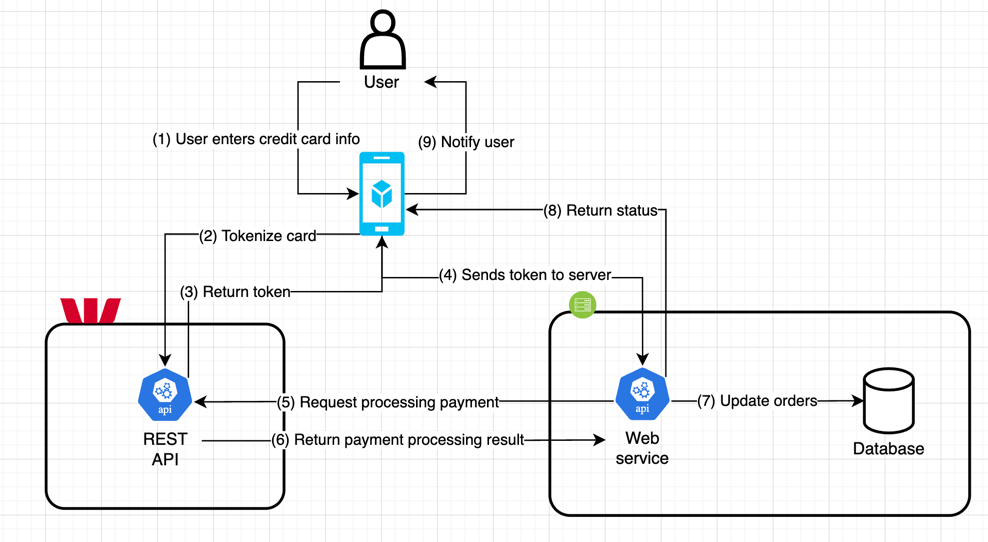
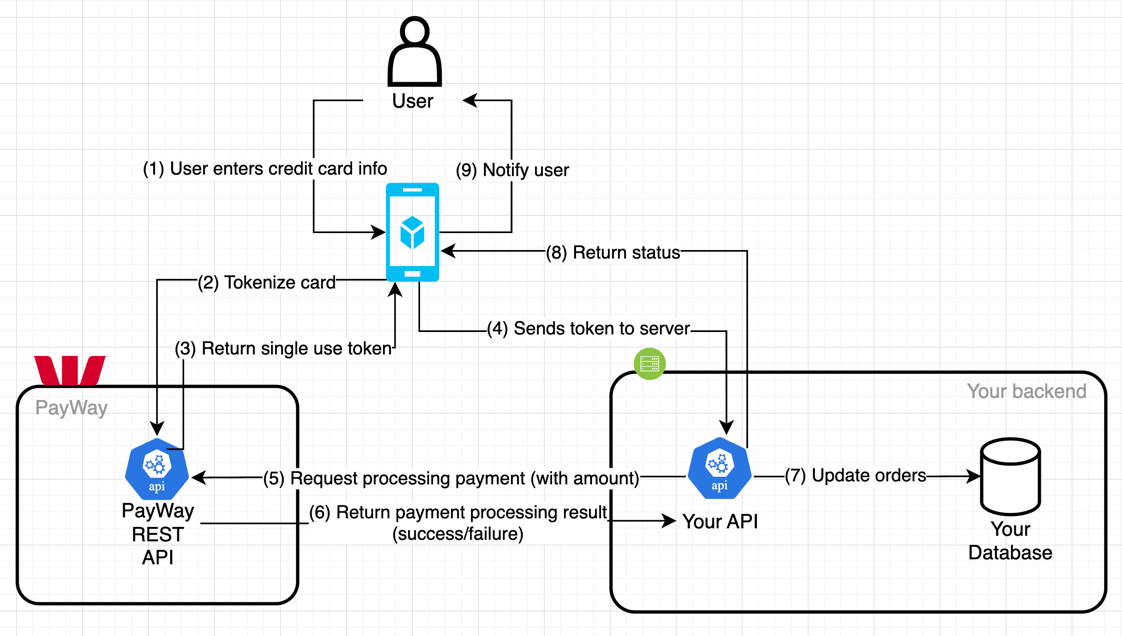
Update the article for SDK demonstration

Changed region(s): [[0.0, 0.0, 1.0, 0.9742]]

diff --git a/articles/integrating-payway-into-your-app.md b/articles/integrating-payway-into-your-app.md
@@ -40,13 +40,13 @@ together to process payments securely. Below is a proposed system architecture f
 
 ```mermaid
 graph TD
-    A[User] -->|Initiates Payment| B[Frontend]
-    B -->|Send Payment Info| C[Backend REST API]
+    A[User] -->|Initiates Payment| B[Your Frontend]
+    B -->|Send Payment Info| C[Your API]
     C -->|Validate & Process Payment| D[PayWay API]
     D -->|Process Payment| E[Bank]
     E -->|Payment Confirmation| D
     D -->|Payment Status| C
-    C -->|Update Order Status| F[Database]
+    C -->|Update Order Status| F[Your Database]
     C -->|Respond with Status| B
     B -->|Show Confirmation| A
 ```
@@ -67,11 +67,14 @@ The payment flow for integrating PayWay can be summarized in the following steps
 
 To demonstrate how to integrate PayWay into your application, 
 we made a proof of concept (POC) code available on [our GitHub repo](https://github.com/whitefoxcloud/payway-poc). 
+
 This POC provides examples for processing credit card and direct debit payments using PayWay.
+
+The code implementations are for demonstration purposes only and should be adapted to your specific requirements and security standards.
 
 ### Credit Card Payment Example
 
-![Credit card diagram](credit_card_diagram.png)
+![PayWay payment integration flow - credit card](credit_card_diagram.png)
 
 Here is a simplified version of how to process a credit card payment using PayWay:
 
@@ -80,8 +83,8 @@ import requests
 
 PAYWAY_API_URL = "https://api.payway.com.au/rest/v1/transactions"
 PAYWAY_SINGLE_USE_TOKEN_API_URL = "https://api.payway.com.au/rest/v1/single-use-tokens"
-PAYWAY_PUBLISHABLE_API_KEY = ""
-PAYWAY_SECRET_API_KEY = ""
+PAYWAY_PUBLISHABLE_API_KEY = {} # Your publishable API key
+PAYWAY_SECRET_API_KEY = {} # Your secret API key
 
 
 def process_credit_card_payment(amount, card_number, card_holder_name, expiry_month, expiry_year, cvn, merchant_id="TEST"):
@@ -126,7 +129,7 @@ print(response)
 
 ### Direct Debit Payment Example
 
-![Direct debit diagram](direct_debit_diagram.png)
+![PayWay payment integration flow - direct debit](direct_debit_diagram.png)
 
 Similarly, here is an example for processing a direct debit payment:
 
@@ -140,8 +143,8 @@ PAYWAY_SINGLE_USE_TOKEN_API_URL = "https://api.payway.com.au/rest/v1/single-use-
 PAYWAY_CUSTOMER_API_URL = "https://api.payway.com.au/rest/v1/customers/{customer_id}"
 PAYWAY_REGULAR_PAYMENT_API_URL = "https://api.payway.com.au/rest/v1/customers/{customer_id}/schedule"
 BANK_ID = "0000000A"
-PAYWAY_PUBLISHABLE_API_KEY = ""
-PAYWAY_SECRET_API_KEY = ""
+PAYWAY_PUBLISHABLE_API_KEY = {} # Your publishable API key
+PAYWAY_SECRET_API_KEY = {} # Your secret API key
 
 
 def process_direct_debit_payment(amount, frequency, bsb, account_number, account_name, customer_id, merchant_id="TEST"):
@@ -194,13 +197,114 @@ response = process_direct_debit_payment(1000, "weekly", "012003", "456789", "Joh
 print(response)
 ```
 
-### Example PayWay SDK
+## Example PayWay SDK
 
-You could refer to the simple SDK that we implemented in [our GitHub repo](https://github.com/whitefoxcloud/payway-poc).
+The codes we introduced above were the simplified version of how you could communicate with PayWay using Python's `requests` library. While this approach works, it requires manual handling of HTTP requests and responses, which can be error-prone and time-consuming.
 
-That includes the skeleton of the SDK for communicating with PayWay API. 
+The better approach is to implement an SDK. We've developed an example SDK client that abstracts away the complexities of direct API calls. Using SDK client, you can enjoy several benefits:
+- **Ease of Use**: The SDK provides intuitive functions that simplify interactions with the PayWay API, reducing boilerplate code and making your codebase cleaner.
+- **Improved Reliability**: Our SDK handles many common issues such as retries, error handling, and response parsing, ensuring more reliable and robust communication with the PayWay API.
+- **Enhanced Security**: By managing authentication and secure data transmission within the SDK, we minimize potential security vulnerabilities in your application.
 
-If you want to modify and adapt it to your specific business needs or get help with integrating PayWay into your system, we could help you. Feel free to contact us.
+You can integrate this SDK into your project by visiting [our GitHub repo](https://github.com/whitefoxcloud/payway-poc/tree/main/src/payway). The repository includes comprehensive examples to help you get started quickly.
+
+
+### SDK Usage Example: Credit Card Payment
+
+Here's an example of how you can use our example PayWay SDK to process a credit card payment. 
+
+Please note that this is for demonstration purposes only, and not an official SDK from PayWay, hence you should adapt it to your specific requirements and security standards.
+
+Create a PayWay client instance:
+```python
+payway_client = PayWayClient(
+    api_base_url="https://api.payway.com.au/rest/v1",
+    merchant_id="TEST",
+    bank_account_id="0000000A",
+    publishable_api_key="YOUR_PUBLISHABLE_API_KEY",
+    secret_api_key="YOUR_SECRET_API_KEY",
+)
+```
+
+Obtain a single use token for a credit card:
+```python
+# Create a card instance
+card = PayWayCard(
+    card_number="4715142376126536",
+    cvn="218",
+    card_holder_name="Filippa Padovano",
+    expiry_date_month="04",
+    expiry_date_year="29"
+)
+
+# Create card token and create customer
+token_response, errors = payway_client.create_card_token(card)
+if errors:
+    for error in errors:
+        print(error.to_message())
+        return
+token = token_response.token
+
+# Log card token
+print("Created card token:", token)
+```
+
+Create a customer and store the card token:
+```python
+# Create a customer instance
+customer = PayWayCustomer(
+    custom_id="[YOUR_CUSTOMER_ID]",
+    customer_name="John Doe",
+    email_address="johndoe@whitefox.cloud",
+    send_email_receipts=False,
+    phone_number="0343232323",
+    street="1 Test Street",
+    street2="2 Test Street",
+    city_name="Melbourne",
+    state="VIC",
+    postal_code="3000",
+    token=token,
+)
+
+# Store the customer information with the card
+payway_customer, errors = payway_client.create_customer(customer)
+if errors:
+    for error in errors:
+        print(error.to_message())
+        return
+    
+# Log customer creation information
+print("Created customer:", payway_customer.customer_number)
+```
+
+Process a transaction:
+```python
+# Create a transaction instance
+payment = PayWayPayment(
+    customer_number=payway_customer.customer_number,
+    transaction_type="payment",
+    amount="YOUR_AMOUNT",
+    currency="aud",
+    order_number="YOUR_ORDER_NUMBER",
+    ip_address=""
+)
+
+# Process the payment transaction
+transaction, errors = payway_client.process_payment(payment)
+if errors:
+    for error in errors:
+        print(error.to_message())
+        return
+    
+# Log transaction information
+print("Processed transaction:", transaction.transaction_id)
+print("Transaction status:", transaction.status)
+```
+
+This example demonstrates how you can use the PayWay SDK to handle credit card payments in a more structured and secure manner.
+
+You can get started using our example SDK code. If you need further assistance or customization, feel free to reach out to us. 
+We can help you tailor the SDK to your specific requirements and ensure a seamless integration with PayWay.
 
 
 # Comparing PayWay with Monoova, Stripe, and Other Australian Payment Gateways
@@ -214,7 +318,7 @@ If you want to modify and adapt it to your specific business needs or get help w
 | Additional Features| Limited            | Real-time payments, PayTo | Recurring billing, marketplace, etc. | Fraud prevention, etc. | Fraud prevention, etc. |
 
 
-## Alternative solution: Monova
+## Alternative solution: Monoova
 While PayWay is a popular choice, it's important to consider alternatives like Monoova. 
 Monoova is known for its focus on real-time payments and innovative features like PayTo.
 
